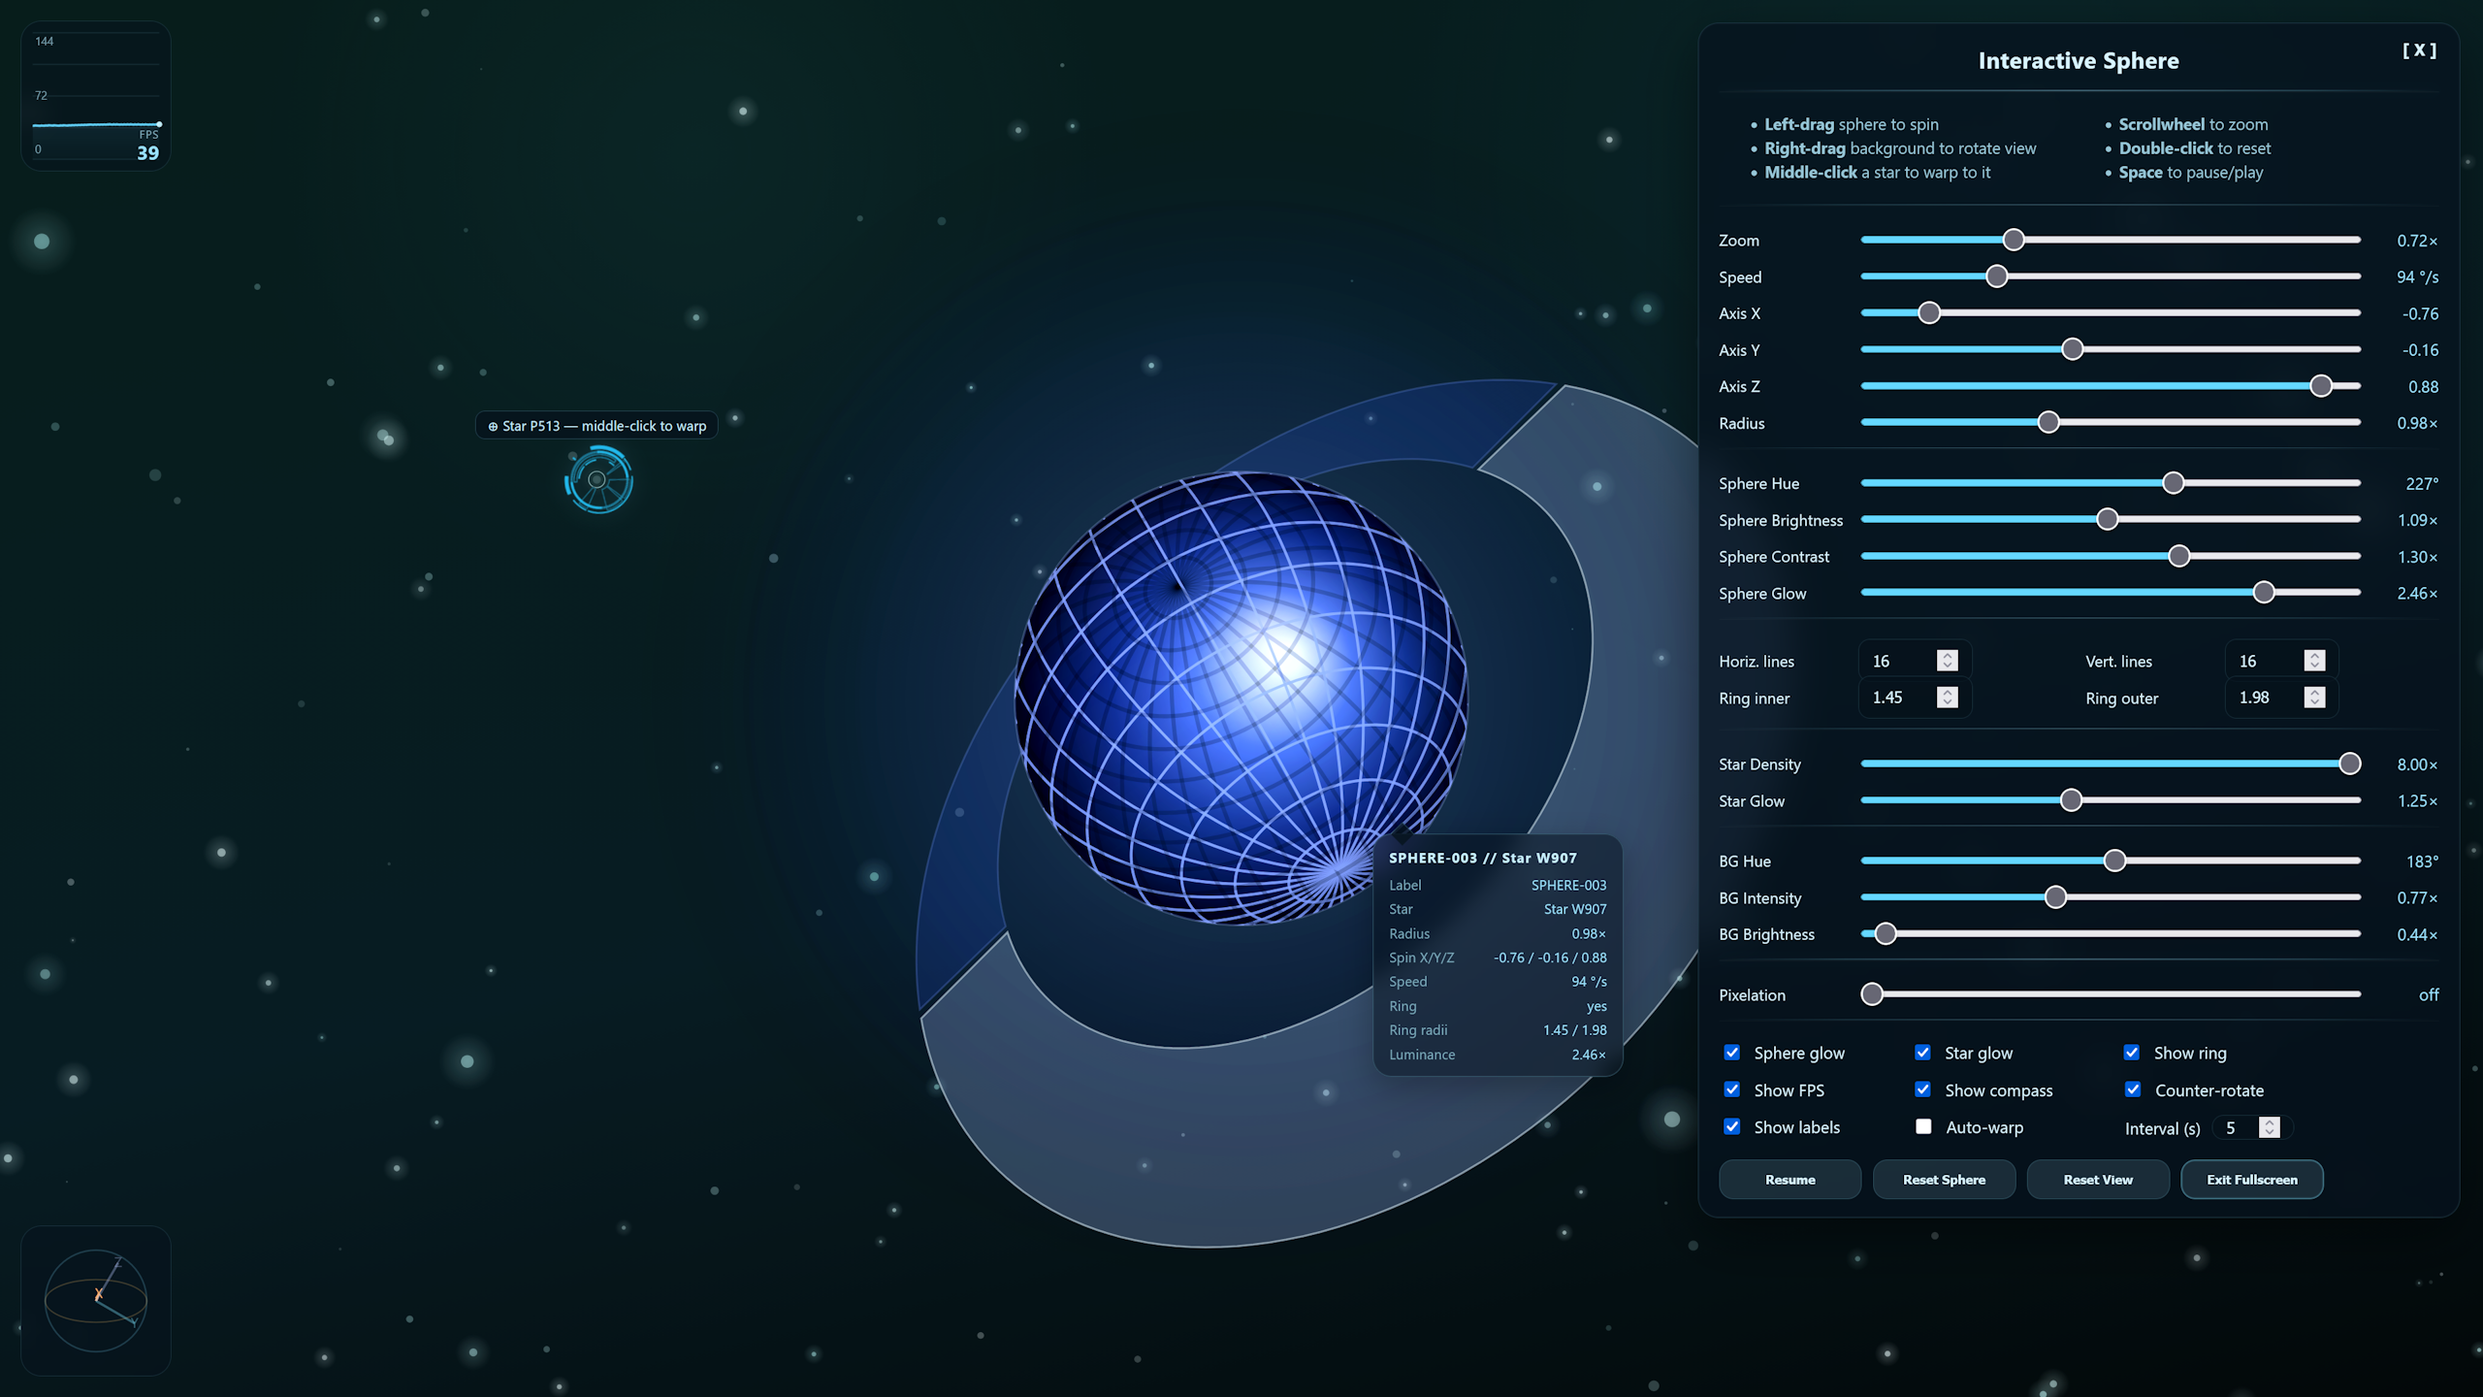
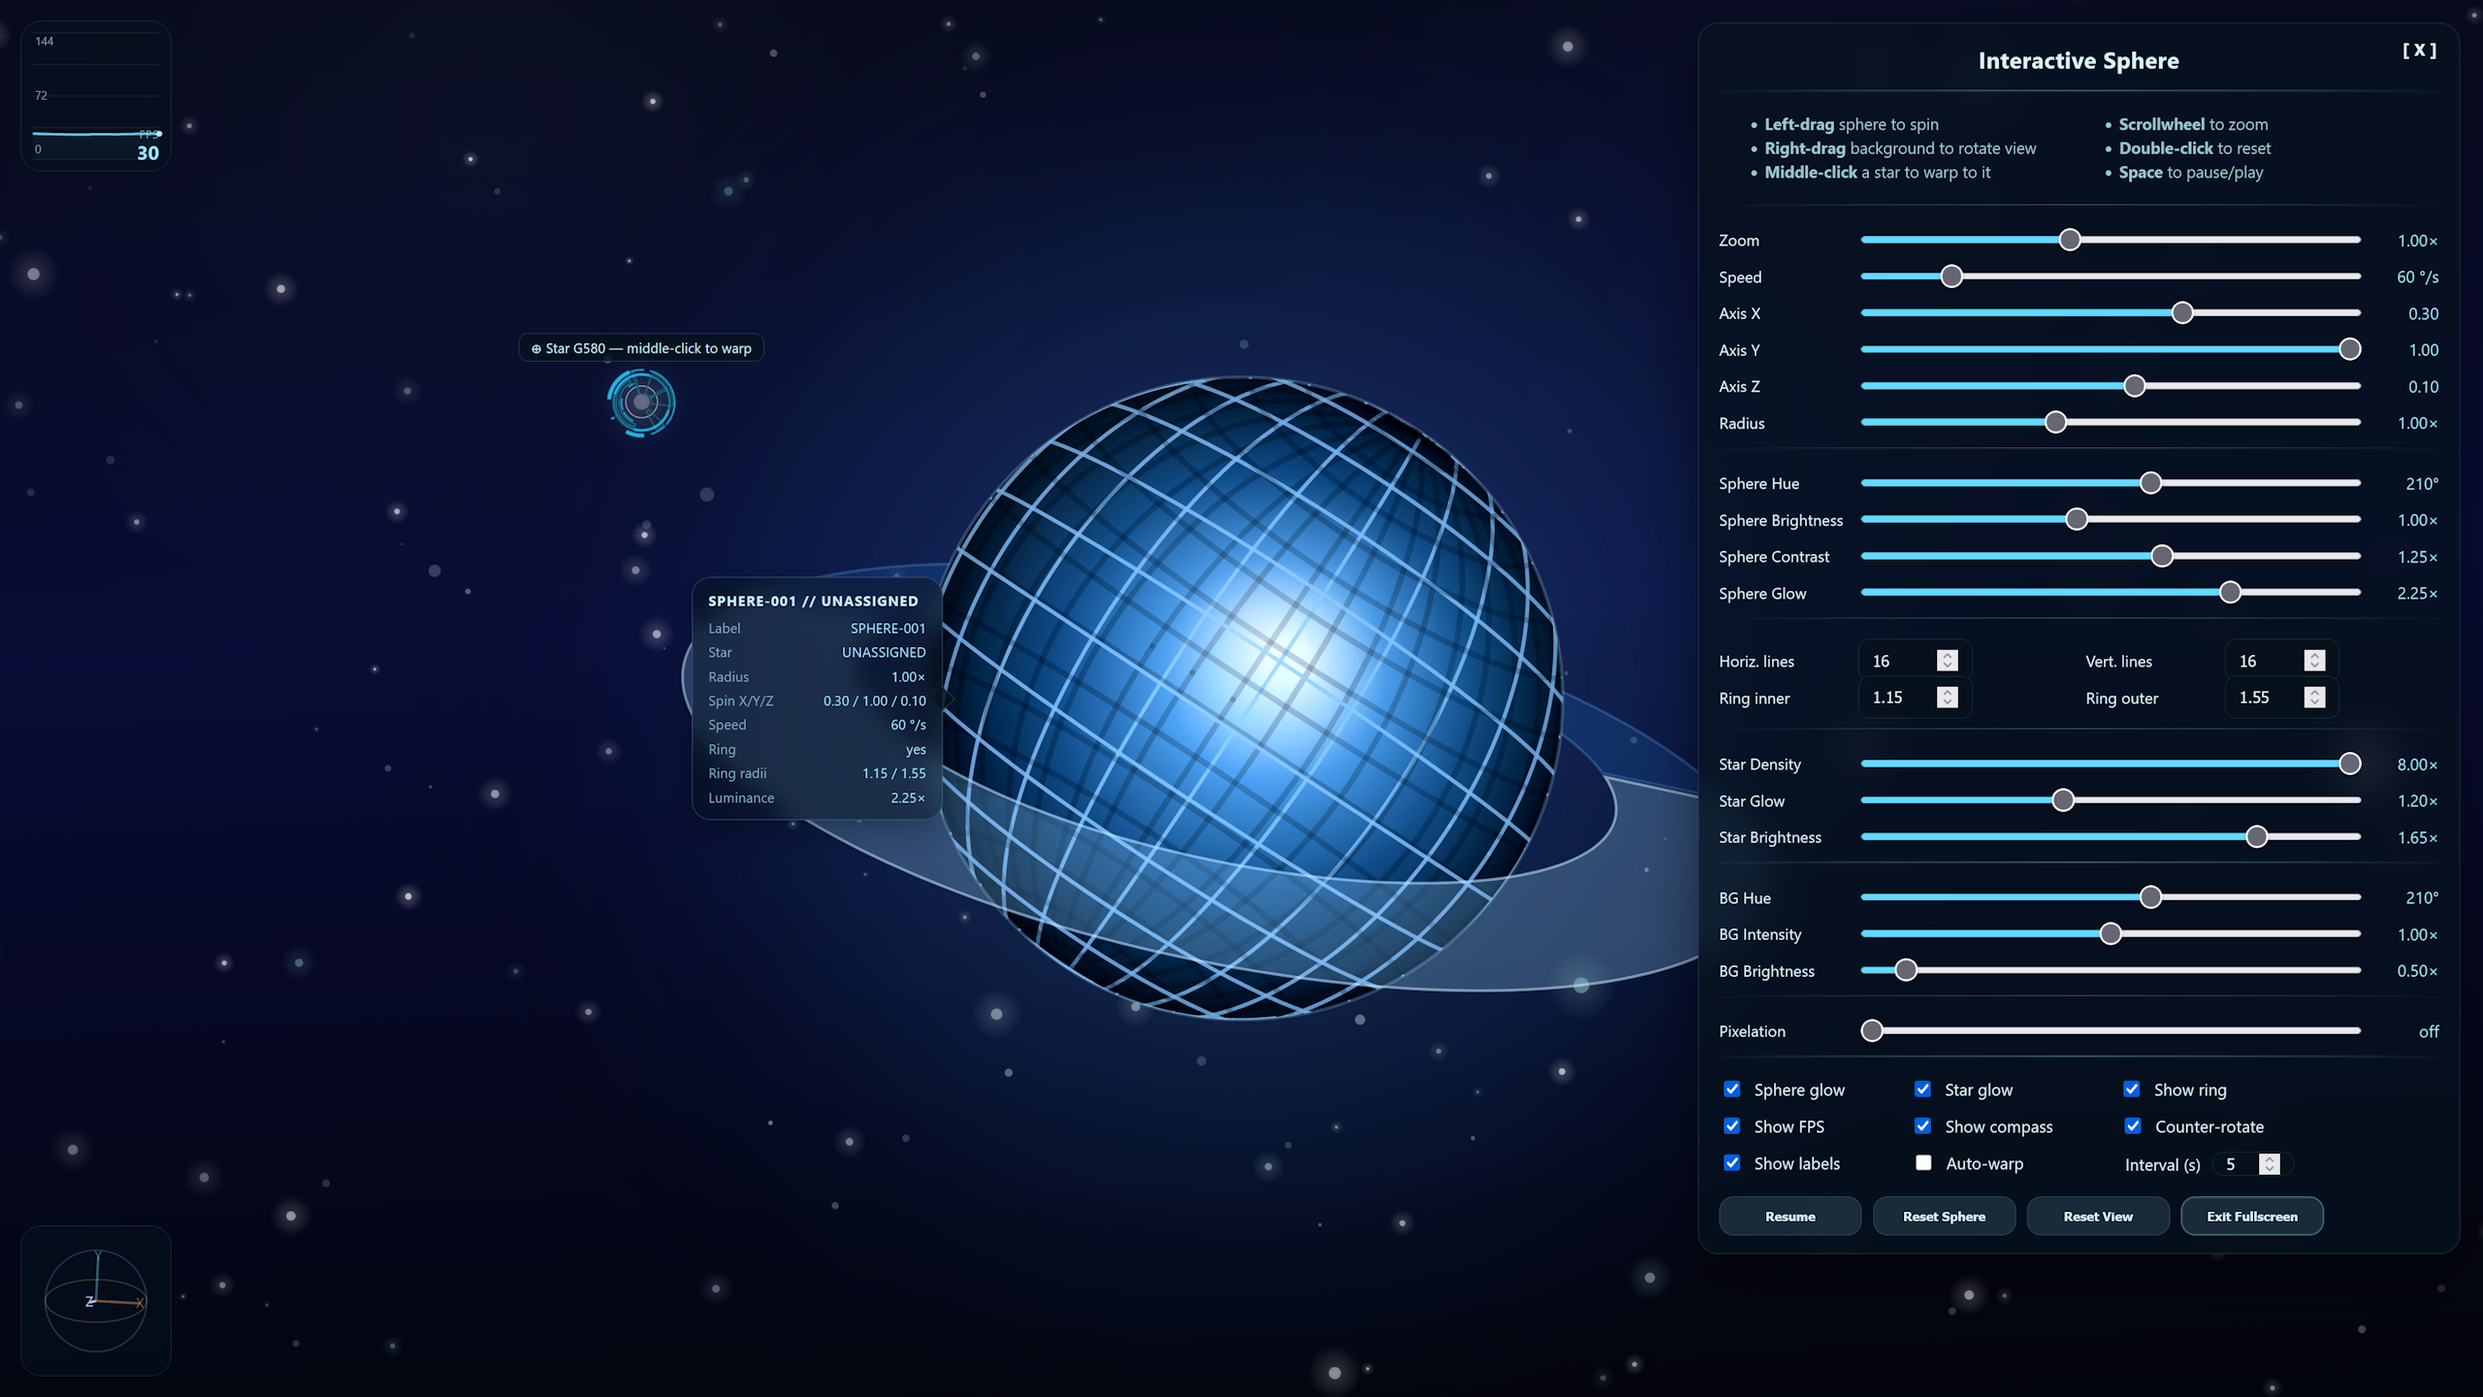
add star brightness slider

diff --git a/js/script.js b/js/script.js
@@ -48,6 +48,8 @@ const sphereGlowAmountInput = document.getElementById("sphereGlowAmount");
 const sphereGlowAmountVal = document.getElementById("sphereGlowAmountVal");
 const starGlowAmountInput = document.getElementById("starGlowAmount");
 const starGlowAmountVal = document.getElementById("starGlowAmountVal");
+const starBrightnessInput = document.getElementById("starBrightness");
+const starBrightnessVal = document.getElementById("starBrightnessVal");
 const showGlowInput = document.getElementById("showGlow");
 const showStarGlowInput = document.getElementById("showStarGlow");
 const counterRotateStarsInput = document.getElementById("counterRotateStars");
@@ -148,6 +150,7 @@ let showGlow = true;
 let showStarGlow = true;
 let sphereGlowAmount = 1;
 let starGlowAmount = 1;
+let starBrightness = 1;
 let paused = false;
 
 let lastTime = 0;
@@ -615,6 +618,7 @@ function updateLabels() {
   const density = clamp(Number(starDensityInput.value) / 100, 0.25, 8);
   sphereGlowAmount = clamp(Number(sphereGlowAmountInput.value) / 100, 0, 3);
   starGlowAmount = clamp(Number(starGlowAmountInput.value) / 100, 0, 3);
+  starBrightness = clamp(Number(starBrightnessInput.value) / 100, 0.2, 2);
   sphereRadiusScale = getSphereRadiusScale();
   sphereRadiusVal.textContent = `${sphereRadiusScale.toFixed(2)}×`;
 
@@ -647,6 +651,7 @@ function updateLabels() {
   axisXVal.textContent = x.toFixed(2);
   axisYVal.textContent = y.toFixed(2);
   axisZVal.textContent = z.toFixed(2);
+  starBrightnessVal.textContent = `${starBrightness.toFixed(2)}×`;
   if (latCountVal) latCountVal.textContent = String(getLatCount());
   if (lonCountVal) lonCountVal.textContent = String(getLonCount());
   hueVal.textContent = `${sphereHue}°`;
@@ -657,7 +662,7 @@ function setControlsDisabled(disabled) {
   const controls = [
     speedInput, zoomInput, axisXInput, axisYInput, axisZInput,
     sphereRadiusInput, stageHueInput, stageIntensityInput, stageBrightnessInput,
-    starDensityInput, sphereGlowAmountInput, starGlowAmountInput,
+    starDensityInput, sphereGlowAmountInput, starGlowAmountInput, starBrightnessInput,
     hueInput, sceneBrightnessInput, sceneContrastInput
   ];
   controls.forEach(el => { if (el) el.disabled = disabled; });
@@ -783,6 +788,7 @@ function buildStars() {
       distance: 3.8 + Math.random() * 4.4,
       radius: 0.4 + Math.random() * 1.8,
       alpha: 0.12 + Math.random() * 0.42,
+      brightness: 0.55 + Math.random() * 0.75,
       tint: Math.random(),
       name: `Star ${String.fromCharCode(65 + Math.floor(Math.random() * 26))}${Math.floor(Math.random() * 999) + 1}`,
     });
@@ -795,9 +801,16 @@ function buildStars() {
 function cacheStarColors() {
   for (let i = 0; i < stars.length; i++) {
     const star = stars[i];
-    star._rv = 155 + Math.round((1 - star.tint) * 40);
-    star._gv = 205 + Math.round(star.tint * 30);
-    star._bv = 220 + Math.round(star.tint * 25);
+    const b = (star.brightness ?? 1) * starBrightness;
+
+    star._rv = Math.round((155 + (1 - star.tint) * 40) * b);
+    star._gv = Math.round((205 + star.tint * 30) * b);
+    star._bv = Math.round((220 + star.tint * 25) * b);
+
+    star._rv = clamp(star._rv, 80, 255);
+    star._gv = clamp(star._gv, 80, 255);
+    star._bv = clamp(star._bv, 80, 255);
+
     star._rgbStr = `${star._rv}, ${star._gv}, ${star._bv}`;
   }
 }
@@ -1097,7 +1110,10 @@ function drawBackground(width, height) {
     if (showStarGlow && starGlowAmount > 0 && (star.alpha > 0.3 || isHovered || isWarpTarget)) {
       const baseGlowR = isHovered || isWarpTarget ? sr * 7 : sr * 4;
       const glowR = baseGlowR * (0.45 + starGlowAmount * 0.55);
-      const glowA = (isHovered ? star.alpha * 0.55 : star.alpha * 0.35) * starGlowAmount;
+      const glowA =
+        (isHovered ? star.alpha * 0.55 : star.alpha * 0.35) *
+        starGlowAmount *
+        (star.brightness ?? 1);
       const pulseR = isWarpTarget ? glowR * (1 + easeInQuint(warpProgress) * 3) : glowR;
 
       const glow = ctx.createRadialGradient(x, y, 0, x, y, pulseR);
@@ -1115,7 +1131,8 @@ function drawBackground(width, height) {
       : isWarpTarget ? sr * (1 + easeInQuint(warpProgress) * 4) : sr;
 
     ctx.beginPath();
-    ctx.fillStyle = `rgba(${rgb}, ${Math.min(1, star.alpha * alphaScale)})`;
+    const baseAlpha = Math.min(1, star.alpha * alphaScale * (star.brightness ?? 1));
+    ctx.fillStyle = `rgba(${rgb}, ${baseAlpha})`;
     ctx.arc(x, y, drawR, 0, Math.PI * 2);
     ctx.fill();
 
@@ -1467,7 +1484,6 @@ function drawFpsGraph() {
   const graphW = width - pad * 2;
   const graphH = height - pad * 2;
 
-  // Hintergrund-Raster
   fpsCtx.strokeStyle = "rgba(135, 227, 255, 0.10)";
   fpsCtx.lineWidth = 1;
 
@@ -1479,7 +1495,6 @@ function drawFpsGraph() {
     fpsCtx.stroke();
   }
 
-  // Achsenbeschriftung
   fpsCtx.fillStyle = "rgba(151, 199, 216, 0.75)";
   fpsCtx.font = "10px Inter, system-ui, sans-serif";
   fpsCtx.textAlign = "left";
@@ -1953,6 +1968,8 @@ function resetView() {
   lonCountInput.value     = 12;
 
   starDensityInput.value  = 400;
+  starBrightnessInput.value = "100";
+  starBrightness = 1;
 
   hueInput.value          = 210;
   sphereHue               = 210;
@@ -2364,6 +2381,13 @@ starDensityInput.addEventListener("input",  () => { buildStars(); updateLabels()
 sphereGlowAmountInput.addEventListener("input", () => { updateLabels(); updateOverlayVisibility(); render(); });
 starGlowAmountInput.addEventListener("input",   () => { updateLabels(); updateOverlayVisibility(); render(); });
 
+starBrightnessInput.addEventListener("input", () => {
+  updateLabels();
+  cacheStarColors();
+  updateOverlayVisibility();
+  render();
+});
+
 showGlowInput.addEventListener("change",     () => { showGlow     = showGlowInput.checked;     updateOverlayVisibility(); render(); });
 showStarGlowInput.addEventListener("change", () => { showStarGlow = showStarGlowInput.checked; updateOverlayVisibility(); render(); });
 
@@ -2482,6 +2506,7 @@ showStarGlow       = showStarGlowInput.checked;
 counterRotateStars = counterRotateStarsInput.checked;
 sphereGlowAmount   = clamp(Number(sphereGlowAmountInput.value) / 100, 0, 3);
 starGlowAmount     = clamp(Number(starGlowAmountInput.value) / 100, 0, 3);
+starBrightness     = clamp(Number(starBrightnessInput.value) / 100, 0.2, 2);
 sceneBrightness    = clamp(Number(sceneBrightnessInput.value) / 100, 0.4, 1.8);
 sceneContrast      = clamp(Number(sceneContrastInput.value) / 100, 0.4, 1.8);
 autoWarp           = autoWarpInput.checked;

diff --git a/index.html b/index.html
@@ -149,6 +149,12 @@
             <div class="value" id="starGlowAmountVal">1.00×</div>
           </div>
 
+          <div class="control control-inline">
+            <label for="starBrightness">Star Brightness</label>
+            <input id="starBrightness" type="range" min="20" max="200" step="1" value="100">
+            <span class="value" id="starBrightnessVal">1.00×</span>
+          </div>
+          
           <hr>
 
           <div class="control control-inline">

diff --git a/README.md b/README.md
@@ -20,19 +20,29 @@ An optional planetary ring can be enabled to give the scene a more stylized orbi
 
 ### Background and effects
 
-The surrounding scene includes a starfield whose density can be adjusted to create anything from a sparse backdrop to a busy space environment. Additional visual effects such as sphere glow and star glow can be enabled individually, with separate intensity controls for each.
+The surrounding scene includes a starfield whose density can be adjusted to create anything from a sparse backdrop to a busy space environment. Stars also support randomized per-star brightness variation, which gives the background a more natural depth, and a dedicated star brightness control makes it possible to scale the overall luminosity of the starfield without removing those individual differences.
 
-To further shape the overall look, the scene supports sphere brightness and contrast adjustments as well as optional counter-rotating stars for added depth and motion. The background is controlled independently through dedicated hue, intensity, and brightness settings, so the stage can be tuned without affecting the sphere or the stars rendered on the canvas.
+Additional visual effects such as sphere glow and star glow can be enabled individually, with separate intensity controls for each. To further shape the overall look, the scene supports sphere brightness and contrast adjustments as well as optional counter-rotating stars for added depth and motion.
+
+The background is controlled independently through dedicated hue, intensity, and brightness settings, so the stage can be tuned without affecting the sphere or the stars rendered on the canvas. An optional pixelation post-process can also be used to give the whole canvas a more stylized low-resolution look.
 
 Warp transitions add movement and variation to the experience. During a warp, the selected star is smoothly centered toward the canvas midpoint, the sphere drifts across the scene, and several scene parameters can be randomized. These include sphere hue, axis weighting, speed, sphere brightness, contrast, sphere radius, ring configuration, and background hue, intensity, and brightness. Background slider values animate during the warp, so the UI always reflects the live scene state.
 
 ### Interface
 
-The UI includes a set of optional overlays and utilities designed to support both exploration and performance monitoring. A compass widget can be shown to indicate orientation, and an FPS display can be enabled for performance feedback.
+The UI includes a set of optional overlays and utilities designed to support both exploration and performance monitoring. A compass widget can be shown to indicate orientation, and an FPS display can be enabled for performance feedback. The FPS panel includes both a numeric readout and a smoothed history graph for easier monitoring of performance over time.
 
 Stars can be interacted with directly through hover labels and warp targeting. The interface also supports fullscreen mode with synchronized button state, auto-warp mode with configurable timing, and automatic hiding of the overlay and custom cursor after inactivity for a cleaner presentation.
 
 An optional information label panel can be displayed near the sphere. It shows the current sphere ID, the last warped star label, radius, spin axis values, speed, glow intensity, and ring configuration. The panel is positioned dynamically around the sphere and includes a directional pointer toward the object.
+
+Pausing the scene affects the live simulation consistently: automatic rotation stops, counter-rotation stops, auto-warp pauses, and zoom auto-drift pauses as well. A dedicated play/pause overlay icon is also shown briefly whenever the pause state changes, whether triggered by button or keyboard shortcut.
+
+### Defaults and quality-of-life behavior
+
+The default reset state is tuned for a richer presentation. Counter-rotate, FPS display, and ring rendering are enabled by default, star density is set to `4.00×`, and speed is set to `60 °/s`.
+
+For a cleaner interaction model, the browser context menu is disabled across the document, so right-click can always be reserved for view rotation without native menu interruption.
 
 ## Controls
 
@@ -46,11 +56,17 @@ An optional information label panel can be displayed near the sphere. It shows t
 | **Middle click on a star** | Warp to the selected star |
 | **Double click on sphere** | Reset sphere orientation |
 
+### Keyboard interaction
+
+| Input | Action |
+|---|---|
+| **Space** | Toggle pause / resume |
+
 ### Buttons and toggles
 
 | Control | Action |
 |---|---|
-| **Pause** | Pause automatic motion |
+| **Pause** | Pause or resume automatic motion and simulation timers |
 | **Reset Sphere** | Reset only the sphere rotation |
 | **Reset View** | Reset the full scene |
 | **Fullscreen** | Enter or leave fullscreen mode |
@@ -76,6 +92,7 @@ An optional information label panel can be displayed near the sphere. It shows t
 | **Contrast** | Control sphere contrast |
 | **Sphere Glow** | Control sphere glow intensity |
 | **Star Density** | Control the number of background stars |
+| **Star Brightness** | Control the overall brightness of the starfield |
 | **Star Glow** | Control star glow intensity |
 | **Background Hue** | Control background color tone |
 | **Background Intensity** | Control background color intensity |
@@ -117,9 +134,11 @@ Just open `index.html` in a browser.
 
 This project is a lightweight interactive graphics demo built without external libraries.
 
-The sphere rendering, ring rendering, rotation logic, warp transitions, background stars, compass, glow effects, scene post-processing, auto-warp logic, information labels, custom cursor behavior, and UI are all handled in plain JavaScript and CSS.
+The sphere rendering, ring rendering, rotation logic, warp transitions, background stars, compass, FPS graph, glow effects, scene post-processing, auto-warp logic, information labels, custom cursor behavior, pause overlay behavior, and UI are all handled in plain JavaScript and CSS.
 
 Warp transitions can randomize both sphere and stage settings, including ring presence, ring size, ring orientation, and background values. Manual and automatic warps use the same transition system, keeping the visual behavior consistent.
+
+The starfield combines randomized radius, alpha, tint, distance, and per-star brightness values to avoid a flat uniform look while still allowing global brightness control through the UI.
 
 ## License
 
